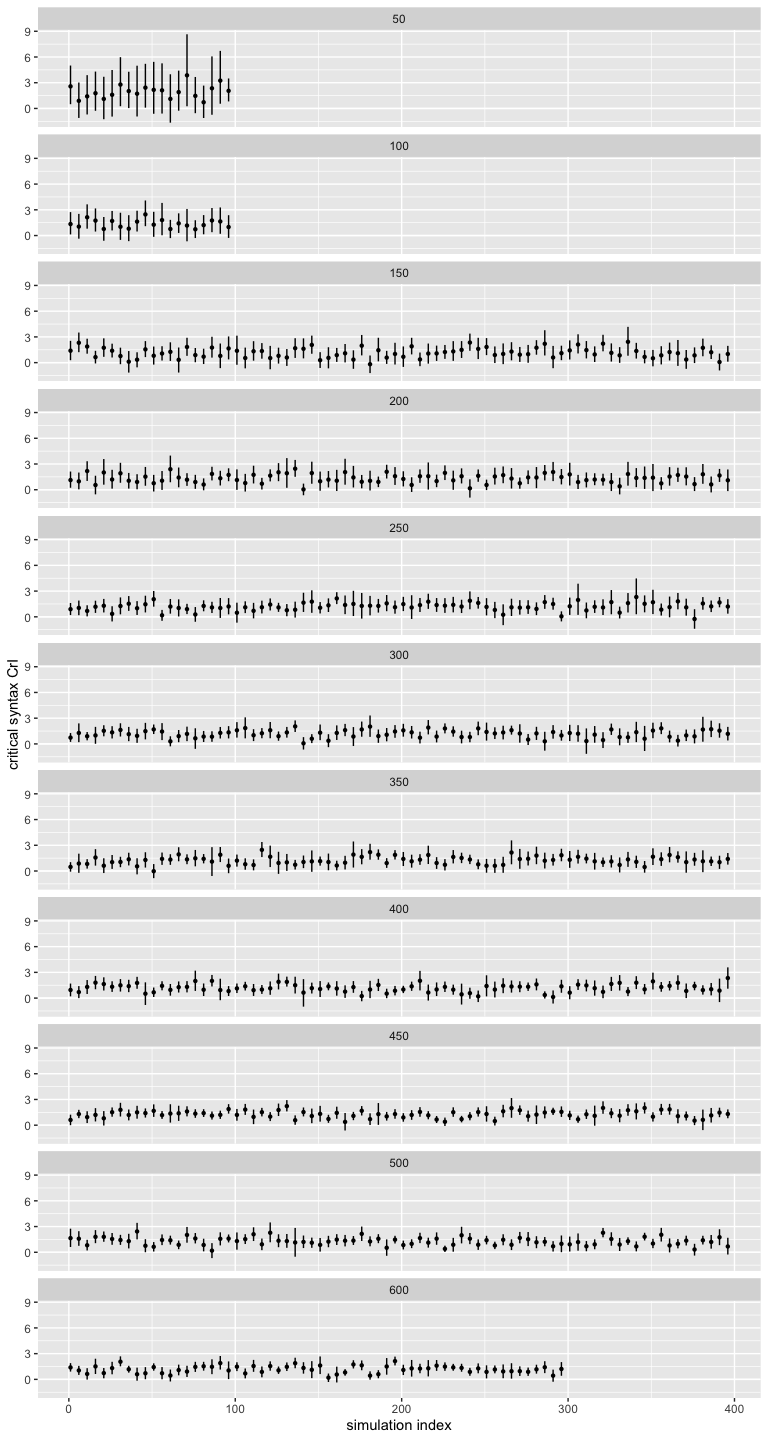
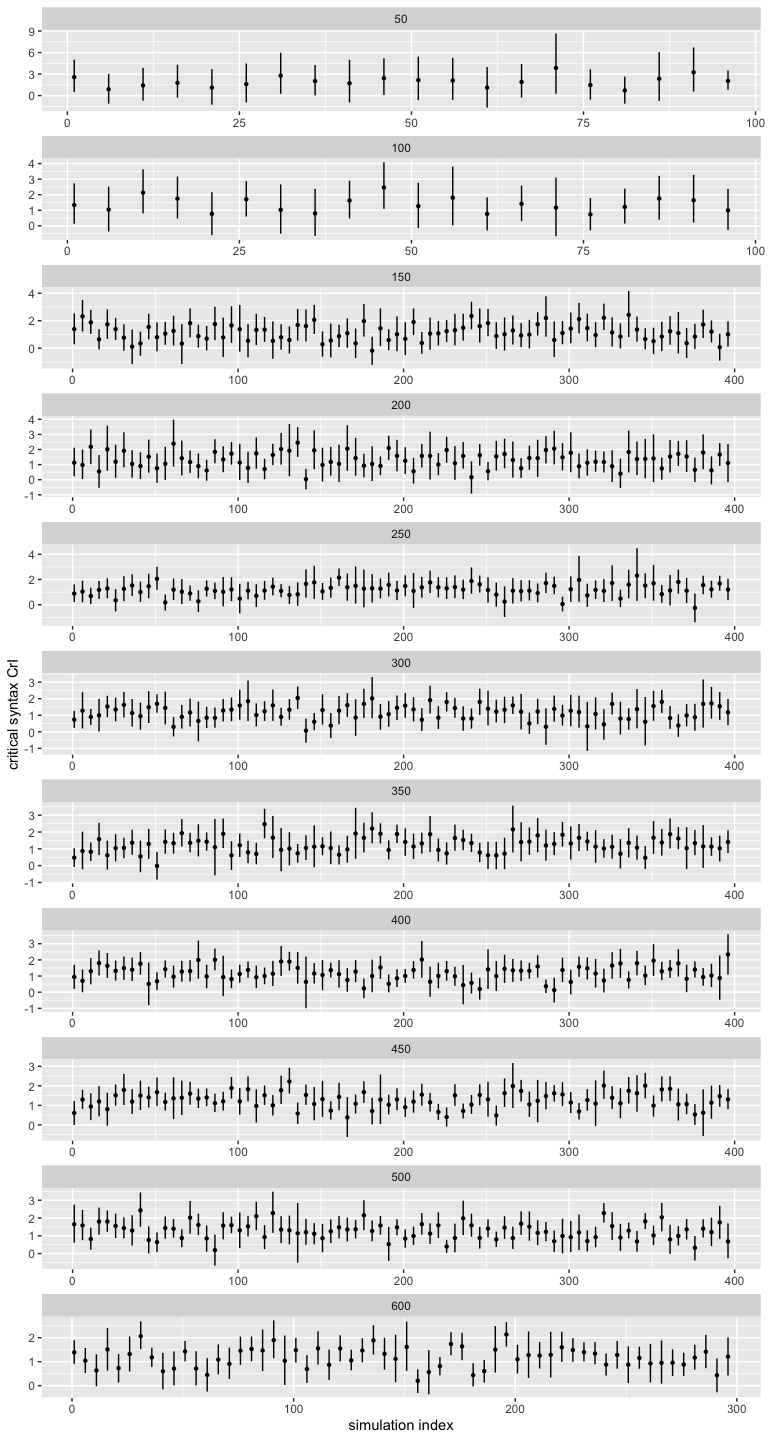
set free scale

Changed region(s): [[0.0312, 0.0, 1.0, 1.0], [0.5, 0.0, 0.5312, 0.0312]]

diff --git a/analysis/direct-modification/direct-modification_power_write-up.md b/analysis/direct-modification/direct-modification_power_write-up.md
@@ -54,39 +54,39 @@ summary(pilot_model)
     ## Group-Level Effects: 
     ## ~target (Number of levels: 10) 
     ##                            Estimate Est.Error l-95% CI u-95% CI Rhat Bulk_ESS
-    ## sd(Intercept)                  0.26      0.20     0.01     0.74 1.00     2168
-    ## sd(syntax_dev1)                0.21      0.17     0.01     0.64 1.00     2426
-    ## sd(trial_dev1)                 0.45      0.25     0.03     1.06 1.00     1615
-    ## sd(syntax_dev1:trial_dev1)     0.25      0.19     0.01     0.72 1.00     2418
+    ## sd(Intercept)                  0.28      0.21     0.01     0.78 1.00     2606
+    ## sd(syntax_dev1)                0.22      0.17     0.01     0.63 1.00     2876
+    ## sd(trial_dev1)                 0.47      0.26     0.05     1.10 1.00     1772
+    ## sd(syntax_dev1:trial_dev1)     0.25      0.20     0.01     0.77 1.00     2263
     ##                            Tail_ESS
-    ## sd(Intercept)                  2752
-    ## sd(syntax_dev1)                2561
-    ## sd(trial_dev1)                 1566
-    ## sd(syntax_dev1:trial_dev1)     3148
+    ## sd(Intercept)                  3081
+    ## sd(syntax_dev1)                2843
+    ## sd(trial_dev1)                 2068
+    ## sd(syntax_dev1:trial_dev1)     3515
     ## 
     ## ~workerid (Number of levels: 180) 
     ##                            Estimate Est.Error l-95% CI u-95% CI Rhat Bulk_ESS
-    ## sd(Intercept)                  3.08      0.40     2.37     3.95 1.00     1983
-    ## sd(syntax_dev1)                0.42      0.26     0.02     0.94 1.00     1166
-    ## sd(trial_dev1)                 0.74      0.32     0.10     1.37 1.00      899
-    ## sd(syntax_dev1:trial_dev1)     0.28      0.20     0.01     0.74 1.00     2000
+    ## sd(Intercept)                  3.09      0.42     2.36     4.00 1.00     1579
+    ## sd(syntax_dev1)                0.40      0.25     0.02     0.93 1.00     1314
+    ## sd(trial_dev1)                 0.73      0.32     0.09     1.36 1.00      796
+    ## sd(syntax_dev1:trial_dev1)     0.28      0.20     0.01     0.74 1.00     1849
     ##                            Tail_ESS
-    ## sd(Intercept)                  3355
-    ## sd(syntax_dev1)                2368
-    ## sd(trial_dev1)                 1233
-    ## sd(syntax_dev1:trial_dev1)     3174
+    ## sd(Intercept)                  2640
+    ## sd(syntax_dev1)                2589
+    ## sd(trial_dev1)                 1121
+    ## sd(syntax_dev1:trial_dev1)     2443
     ## 
     ## Population-Level Effects: 
     ##                        Estimate Est.Error l-95% CI u-95% CI Rhat Bulk_ESS
-    ## Intercept                  2.90      0.43     2.11     3.80 1.00     2196
-    ## syntax_dev1                0.65      0.20     0.27     1.06 1.00     4936
-    ## trial_dev1                -0.12      0.27    -0.66     0.41 1.00     3992
-    ## syntax_dev1:trial_dev1     0.07      0.19    -0.30     0.45 1.00     4605
+    ## Intercept                  2.92      0.43     2.14     3.84 1.00     1999
+    ## syntax_dev1                0.66      0.20     0.29     1.07 1.00     5036
+    ## trial_dev1                -0.12      0.28    -0.65     0.46 1.00     3783
+    ## syntax_dev1:trial_dev1     0.07      0.20    -0.32     0.46 1.00     4894
     ##                        Tail_ESS
-    ## Intercept                  3499
-    ## syntax_dev1                4014
-    ## trial_dev1                 3952
-    ## syntax_dev1:trial_dev1     4250
+    ## Intercept                  2971
+    ## syntax_dev1                3824
+    ## trial_dev1                 3407
+    ## syntax_dev1:trial_dev1     3675
     ## 
     ## Samples were drawn using sampling(NUTS). For each parameter, Bulk_ESS
     ## and Tail_ESS are effective sample size measures, and Rhat is the potential
